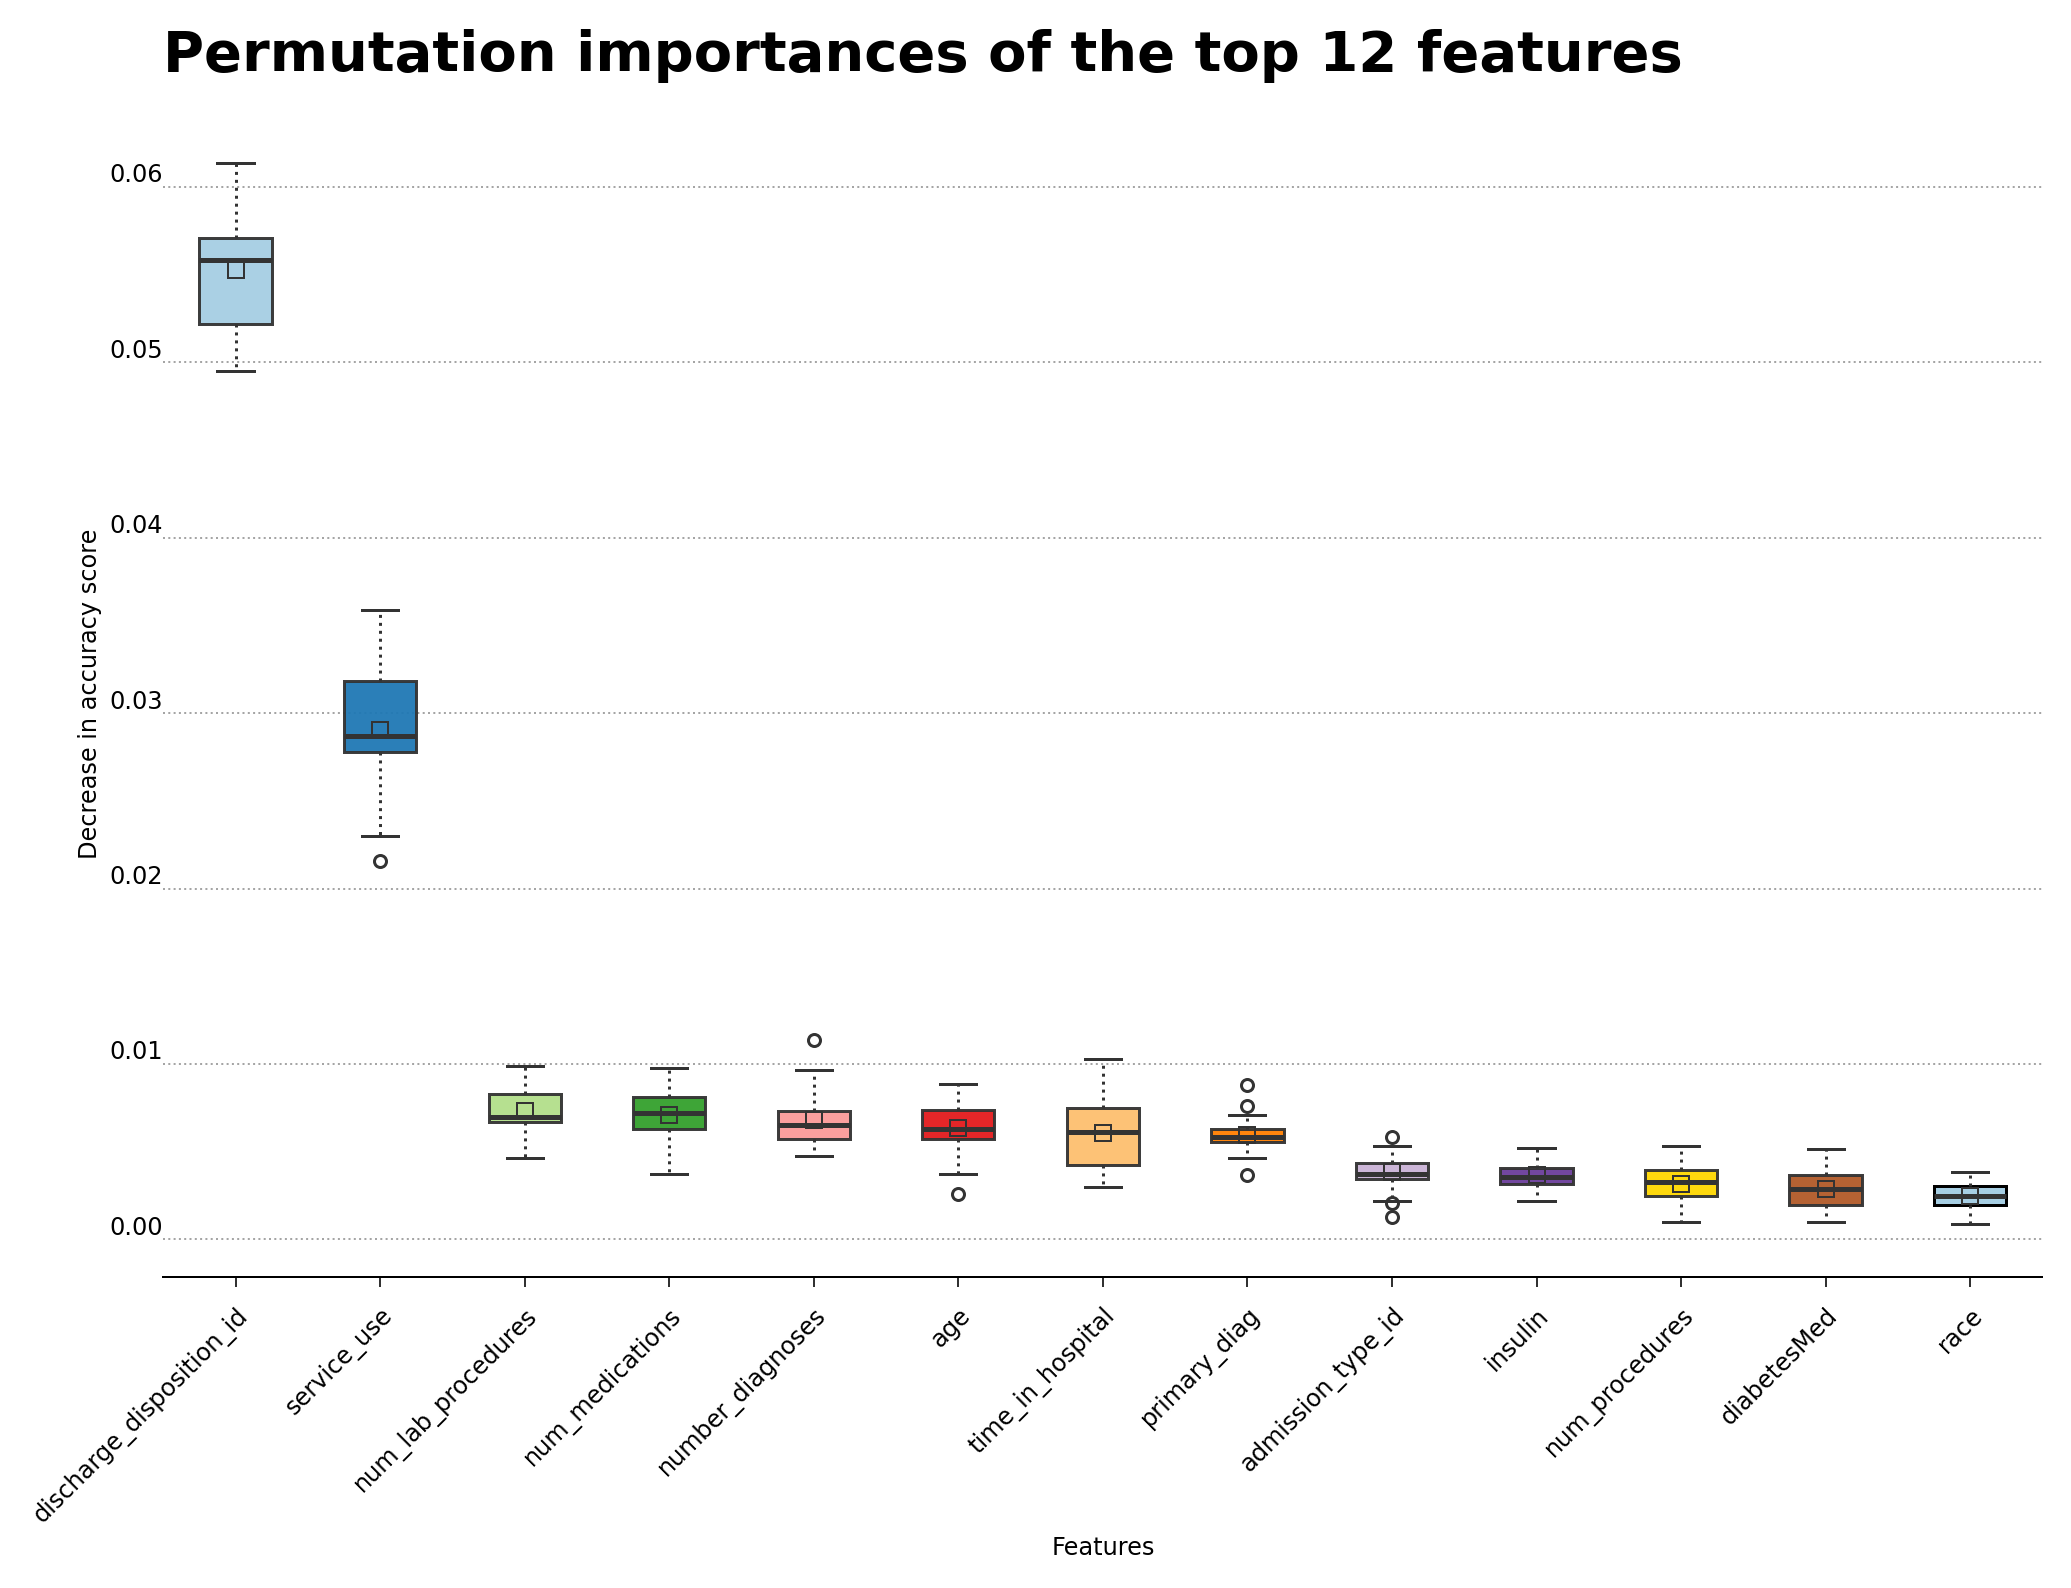
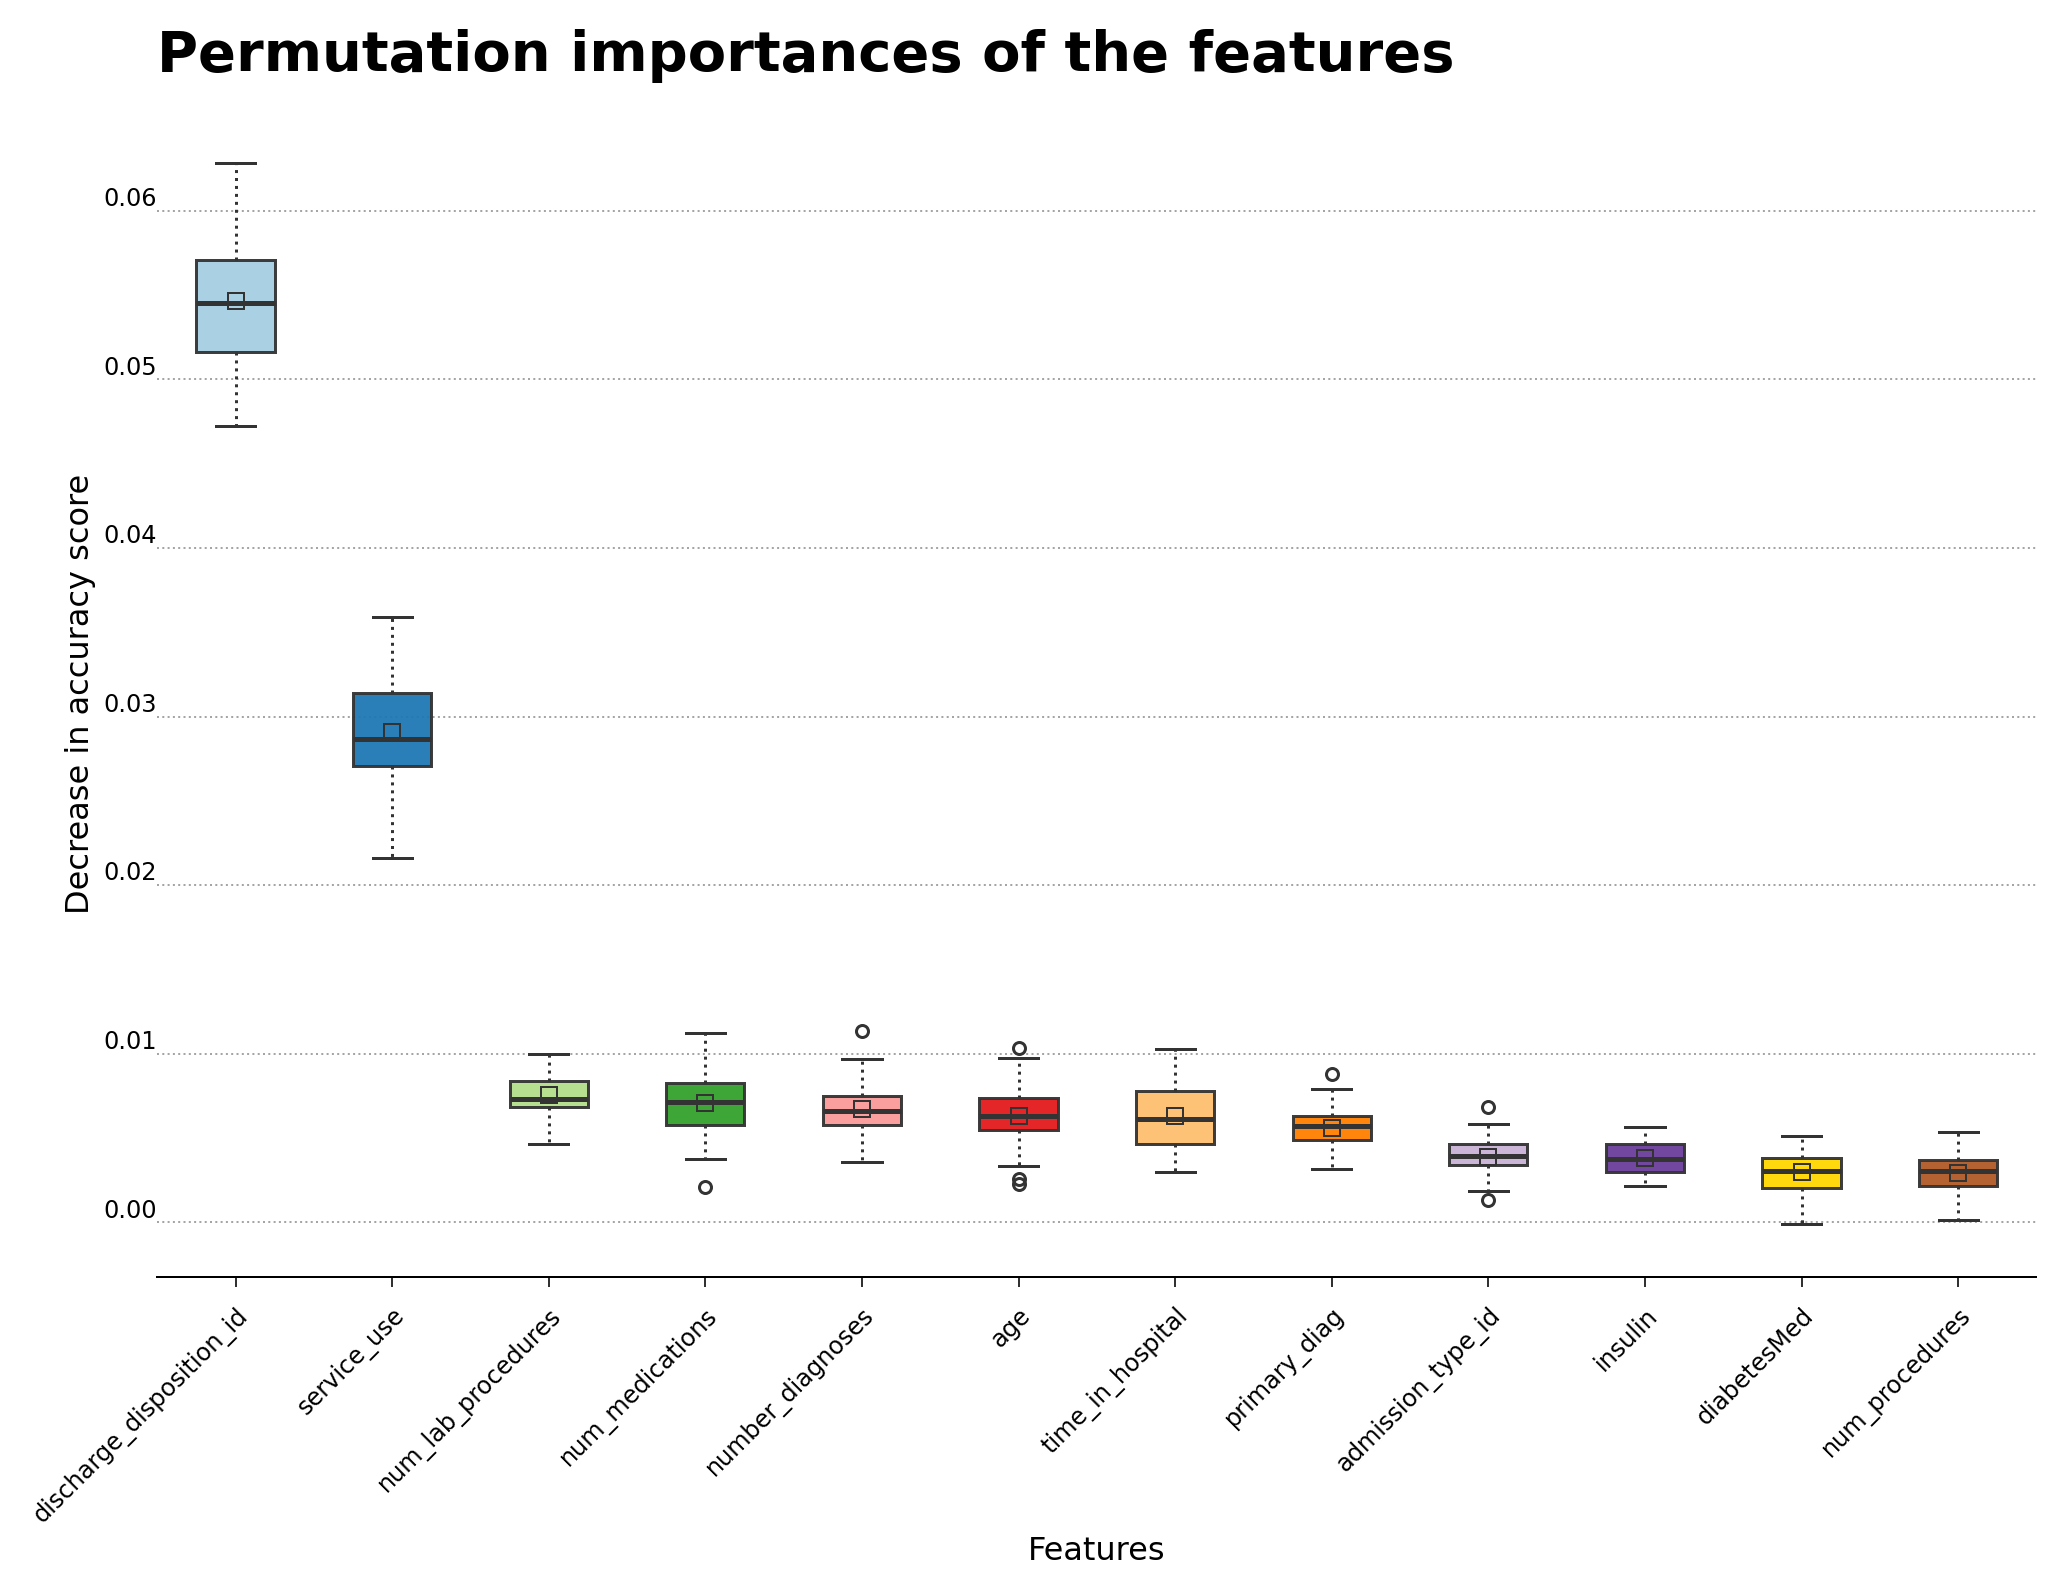
Set 'n_repeats=50' and axes label font size to 16

diff --git a/permutation.py b/permutation.py
@@ -51,7 +51,7 @@ gbc_clf = gbc.fit(X_resampled, y_resampled)
 cols = gbc_clf.feature_names_in_
 r = permutation_importance(gbc_clf, X_resampled, y_resampled,
                            scoring='balanced_accuracy', n_jobs=-1,
-                           random_state=42, n_repeats=25,)
+                           random_state=42, n_repeats=50,)
 
 sorted_results_dict = {}
 for i in r.importances_mean.argsort()[::-1]:
@@ -59,16 +59,16 @@ for i in r.importances_mean.argsort()[::-1]:
         sorted_results_dict[cols[i]] = r.importances[i]
 
 # boxplot
-num = 12
+num_of_features = 12
 first_elements_from_dict = {key: value for i, (key, value) in
                             enumerate(sorted_results_dict.items())
-                            if i <= num}
+                            if i < num_of_features}
 fig, axes = plt.subplots(nrows=1, ncols=1)
 bplot = axes.boxplot(first_elements_from_dict.values(),
                      labels=first_elements_from_dict.keys(),
                      patch_artist=True)
-axes.set_xlabel('Features')
-axes.set_ylabel('Decrease in accuracy score')
+axes.set_xlabel('Features', fontsize=16)
+axes.set_ylabel('Decrease in accuracy score', fontsize=16)
 for patch, color in zip(bplot['boxes'], colors):
     patch.set_facecolor(color)
     patch.set_edgecolor('0.2')
@@ -76,7 +76,7 @@ for patch, color in zip(bplot['boxes'], colors):
 
 plt.setp(axes.get_xticklabels(), ha="right",
          rotation_mode="anchor", rotation=45)
-axes.set_title('Permutation importances of the top {} features'.format(num))
+axes.set_title('Permutation importances of the features')
 plt.savefig(work_dir / 'plots/permutation_importances.png')
 
 results_df = pd.DataFrame(dict(list(r.items())[:2]), index=cols)
